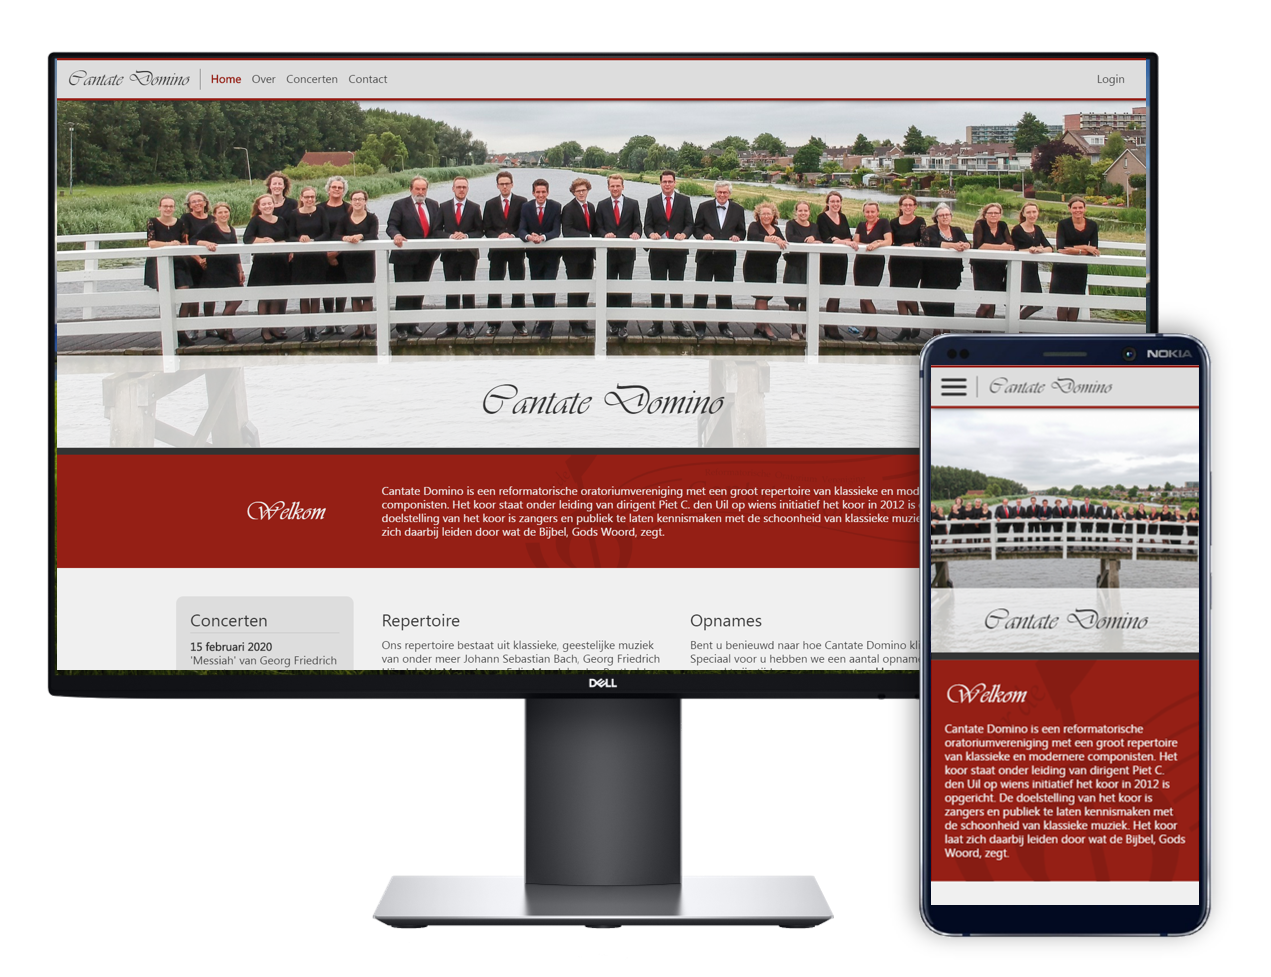
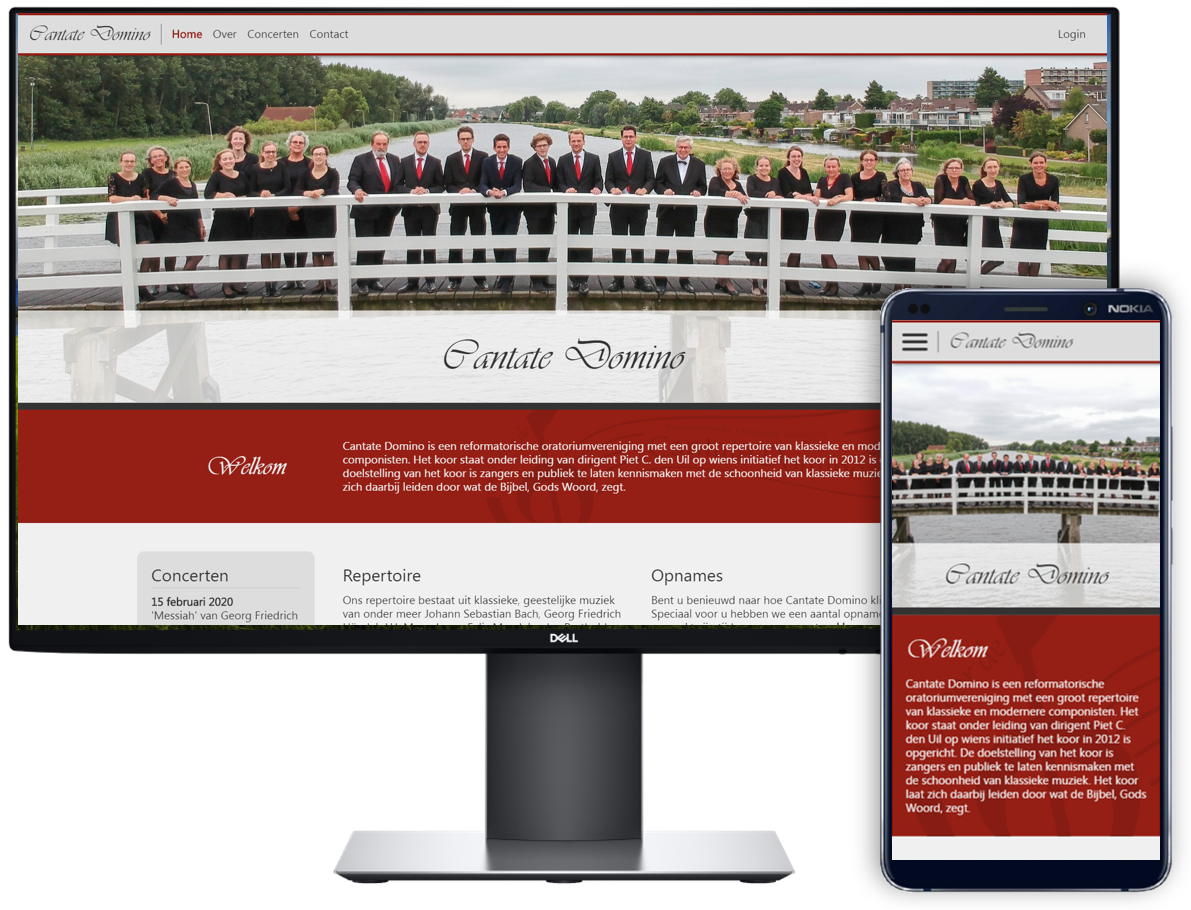
better responsive info blocks portfolio

diff --git a/src/css/portfolioItems.css b/src/css/portfolioItems.css
@@ -24,17 +24,9 @@
     --shadow-visible: rgba(0, 0, 0, 0.16);
 }
 
-
 /*text*/
 
-p,
-a,
-label,
-span,
-input,
-li,
-textarea,
-select {
+p, a, label, span, input, li, textarea, select {
     font-size: 20px;
     font-weight: 400;
     font-family: SegoeUI;
@@ -81,17 +73,10 @@ h3 {
 }
 
 @media only screen and (max-width: 480px) {
-    p,
-    a,
-    label,
-    span,
-    input,
-    li,
-    textarea {
+    p, a, label, span, input, li, textarea {
         font-size: 18px;
     }
 }
-
 
 /*list*/
 
@@ -114,7 +99,6 @@ a {
     text-decoration: none;
 }
 
-
 /*article*/
 
 article {
@@ -130,9 +114,7 @@ article:last-of-type.forceMargin {
     margin-bottom: 40px;
 }
 
-article h1,
-article h2,
-article p {
+article h1, article h2, article p {
     padding-bottom: 17px;
 }
 
@@ -148,9 +130,7 @@ article .button {
     margin: 23px 0px 17px 0px;
 }
 
-article h1:last-child,
-article p:last-child,
-article ul:last-child {
+article h1:last-child, article p:last-child, article ul:last-child {
     padding-bottom: 0;
 }
 
@@ -173,6 +153,8 @@ body {
     width: 100%;
 }
 
+/*section*/
+
 section {
     width: 100%;
     padding: 60px;
@@ -189,7 +171,7 @@ section:nth-child(even) {
 section.projectTitle {
     display: grid;
     grid-template-columns: 2fr 1.5fr;
-    grid-gap: 60px;
+    grid-gap: 80px;
     justify-content: center;
     align-items: center;
     min-height: 100vh;
@@ -213,26 +195,50 @@ section .content {
     align-items: center;
 }
 
-section .content > img {
+section .content>img {
     max-width: 100%;
     max-height: 100%;
     filter: drop-shadow(0px 0px 20px var(--shadow-visible));
+}
+
+@media only screen and (max-width: 1073px) {
+    section.projectTitle {
+        grid-template-columns: 1fr fit-content(380px);
+    }
+}
+
+@media only screen and (max-width: 960px) {
+    section.projectTitle {
+        grid-template-columns: 1fr;
+        grid-template-rows: 1fr max-content;
+        grid-gap: 40px;
+    }
+    section.projectTitle .description {
+        text-align: center;
+    }
+    section.projectTitle .content {
+        justify-content: center;
+    }
 }
 
 @media only screen and (max-width: 863px) {
     section {
         padding: 40px;
     }
-
     section.right {
         grid-template-columns: 1fr;
     }
-
-    section .content >img {
+    section .content>img {
         max-height: initial;
         max-width: initial;
         width: calc(100% + 80px);
         margin: -40px -40px 0px -40px;
+    }
+    section.projectTitle .content>img {
+        max-width: 100%;
+        max-height: 100%;
+        width: initial;
+        margin: 0;
     }
 }
 
@@ -240,14 +246,18 @@ section .content > img {
     section {
         padding: 25px;
     }
-
     section.right {
         grid-gap: 50px;
     }
-
-    section .content >img {
+    section .content>img {
         width: calc(100% + 50px);
         margin: -25px -25px 0px -25px;
+    }
+    section.projectTitle {
+        grid-template-rows: 2fr 1fr;
+    }
+    section.projectTitle .content {
+        align-items: flex-end;
     }
 }
 
@@ -315,9 +325,14 @@ section .content > img {
     .infoBlock {
         grid-template-columns: repeat(2, 1fr);
     }
-
     .infoBlock .block:nth-child(3) {
         grid-column: 1 / 3;
+    }
+}
+
+@media only screen and (max-width: 863px) {
+    .infoBlock {
+        margin-top: 40px;
     }
 }
 
@@ -325,9 +340,14 @@ section .content > img {
     .infoBlock {
         grid-template-columns: 1fr;
     }
-
     .infoBlock .block:nth-child(3) {
         grid-column: 1;
+    }
+}
+
+@media only screen and (max-width: 590px) {
+    .infoBlock {
+        margin-top: 25px;
     }
 }
 
@@ -353,14 +373,30 @@ section .content > img {
     grid-gap: 40px;
 }
 
+.interfaceBlock .mobileInterface:last-child .column img:last-of-type {
+    margin-bottom: 0;
+}
+
 @media only screen and (max-width: 1103px) {
     .interfaceBlock {
         grid-template-columns: 1fr;
         grid-gap: 40px;
     }
-
     .interfaceBlock .desktopInterface img:last-child {
         margin-bottom: 0;
+    }
+}
+
+@media only screen and (max-width: 863px) {
+    .interfaceBlock {
+        margin-top: 40px;
+        grid-gap: 40px;
+    }
+}
+
+@media only screen and (max-width: 590px) {
+    .interfaceBlock {
+        margin-top: 25px;
     }
 }
 
@@ -416,7 +452,18 @@ section .content > img {
     display: none;
 }
 
+@media only screen and (max-width: 863px) {
+    .structureBlock {
+        margin-top: 10px;
+        grid-gap: 40px;
+    }
+}
 
+@media only screen and (max-width: 590px) {
+    .structureBlock {
+        margin-top: 0px;
+    }
+}
 
 /*font*/
 
